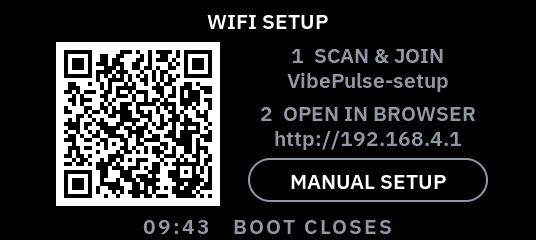
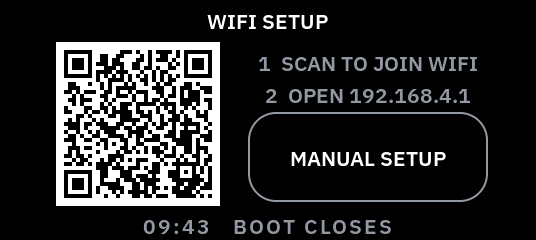
Keep compact Wi-Fi setup controls finger-sized

diff --git a/components/torget_wifi/wifi_setup_ui.c b/components/torget_wifi/wifi_setup_ui.c
@@ -87,19 +87,19 @@ static void compact_layout(bool open, bool qr_open) {
   compact_position(ui.word, 10, 8, 460);
   compact_position(ui.foot, 10, 213, 460);
   if (qr_open) {
-    compact_position(ui.lead, 214, 42, 252);
-    compact_position(ui.hint1, 214, 100, 252);
+    compact_position(ui.lead, 214, 50, 252);
+    compact_position(ui.hint1, 214, 82, 252);
     lv_obj_set_style_text_letter_space(ui.hint1, 0, 0);
     lv_obj_set_style_text_letter_space(ui.lead, 0, 0);
-    lv_obj_set_pos(ui.action, 220, 158);
-    lv_obj_set_size(ui.action, 240, 44);
+    lv_obj_set_pos(ui.action, 220, 112);
+    lv_obj_set_size(ui.action, 240, 90);
   } else if (open) {
     compact_position(ui.lead, 10, 40, 460);
     compact_position(ui.primary, 10, 65, 460);
     compact_position(ui.secondary, 10, 96, 460);
-    compact_position(ui.hint1, 10, 128, 460);
-    lv_obj_set_pos(ui.action, 130, 159);
-    lv_obj_set_size(ui.action, 220, 46);
+    compact_position(ui.hint1, 10, 135, 285);
+    lv_obj_set_pos(ui.action, 310, 124);
+    lv_obj_set_size(ui.action, 160, 90);
   } else {
     compact_position(ui.primary, 10, 85, 460);
     compact_position(ui.detail, 10, 131, 460);
@@ -278,8 +278,8 @@ static void render_open_view(void) {
   show(ui.action, ui.qr_available);
 #ifdef TORGET_BOARD_191_TOUCH
   if (qr_open) {
-    lv_label_set_text(ui.lead, "1  SCAN & JOIN\nVibePulse-setup");
-    lv_label_set_text(ui.hint1, "2  OPEN IN BROWSER\nhttp://192.168.4.1");
+    lv_label_set_text(ui.lead, "1  SCAN TO JOIN WIFI");
+    lv_label_set_text(ui.hint1, "2  OPEN 192.168.4.1");
     show(ui.hint1, true);
   }
   compact_layout(true, qr_open);

diff --git a/test/test_191_layout.py b/test/test_191_layout.py
@@ -15,4 +15,16 @@ with Image.open(root/'vibepulse-tracker-codex-full.png') as im:
 with Image.open(root/'wifi-setup-qr.png') as im:
  colors={color for count,color in im.convert('RGB').crop((56,42,220,206)).getcolors(164*164)}
  assert (0,0,0) in colors and (255,255,255) in colors
-print(f'PASS: {len(frames)} native 536x240 frames, tracker clearance and QR raster')
+# Both setup recovery controls must have a visible 90 px hit area on this board.
+# Check the rendered top/bottom outlines, not just the C size arguments.
+for name, left, right, top, bottom in [
+ ('wifi-setup-qr.png',248,488,112,201),
+ ('wifi-setup-manual.png',338,498,124,213),
+]:
+ with Image.open(root/name) as im:
+  rgb=im.convert('RGB')
+  assert bottom-top+1 >= 90
+  for row in (top,bottom):
+   bright=sum(any(rgb.getpixel((x,row))) for x in range(left,right))
+   assert bright > (right-left)//2, (name,row,bright)
+print(f'PASS: {len(frames)} native 536x240 frames, tracker clearance, QR and 90px setup controls')

diff --git a/docs/waveshare-191-touch.md b/docs/waveshare-191-touch.md
@@ -35,8 +35,9 @@ Before the first install, identify the actual USB port and read a private backup
 
 ```sh
 python -m esptool --chip esp32s3 --port /dev/cu.usbmodemYOURPORT flash_id
-python -m esptool --chip esp32s3 --port /dev/cu.usbmodemYOURPORT read_flash 0 0x1000000 factory-private.bin
-python -m esptool --chip esp32s3 --port /dev/cu.usbmodemYOURPORT verify_flash 0 factory-private.bin
+mkdir -p backups
+python -m esptool --chip esp32s3 --port /dev/cu.usbmodemYOURPORT read_flash 0 0x1000000 backups/factory-private.bin
+python -m esptool --chip esp32s3 --port /dev/cu.usbmodemYOURPORT verify_flash 0 backups/factory-private.bin
 ```
 
 The tested unit has 16 MB flash and 8 MB PSRAM. Keep the backup and built firmware
@@ -79,6 +80,10 @@ forget that network and use the password currently shown on the panel. A first
 `NO_AP_FOUND` message can be transient; allow the retry to finish and confirm
 that the screen joins the home network. Then check for real Claude/Codex usage
 and reset information. Missing data must remain a dash, never a fabricated zero.
+
+![Native 1.91-inch Wi-Fi setup screen with QR code and two phone steps](img/191-touch/wifi-setup-qr.png)
+
+*Simulator capture at the panel's native 536 × 240 size.*
 
 If the serial log says `1.91 touch unavailable`, the display continues to boot
 without touch instead of restarting in a loop. Disconnect USB power for about

diff --git a/docs/superpowers/reviews/2026-09-23-waveshare-191-touch.md b/docs/superpowers/reviews/2026-09-23-waveshare-191-touch.md
@@ -34,6 +34,9 @@ The original quota font lacked percent and missing-data glyphs. A native 84 px
 font adds them. Tracker summary spacing overlapped its pager; native raster
 checks now enforce a clear strip. The QR screen omitted the second browser step;
 it now explicitly says to join the setup network and open http://192.168.4.1.
+Both compact setup recovery buttons were increased to 90 px high and their
+rendered outlines checked in the native simulator. This final button layout
+has not been reflashed for a second on-glass tap test.
 
 The radio reported NO_AP_FOUND (201), then retried successfully, but setup only
 accepted DHCP while its status remained CONNECTING. The stale error prevented
